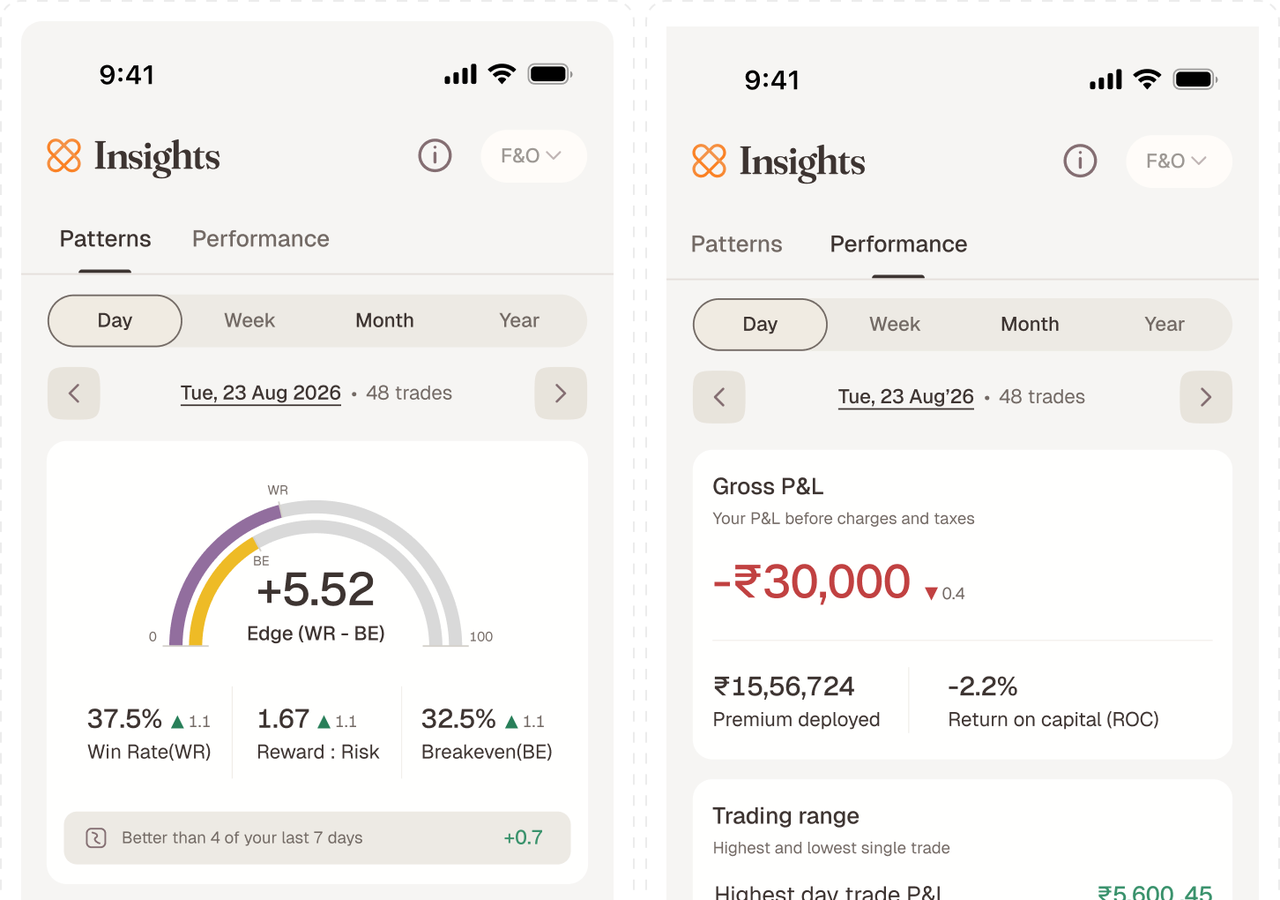
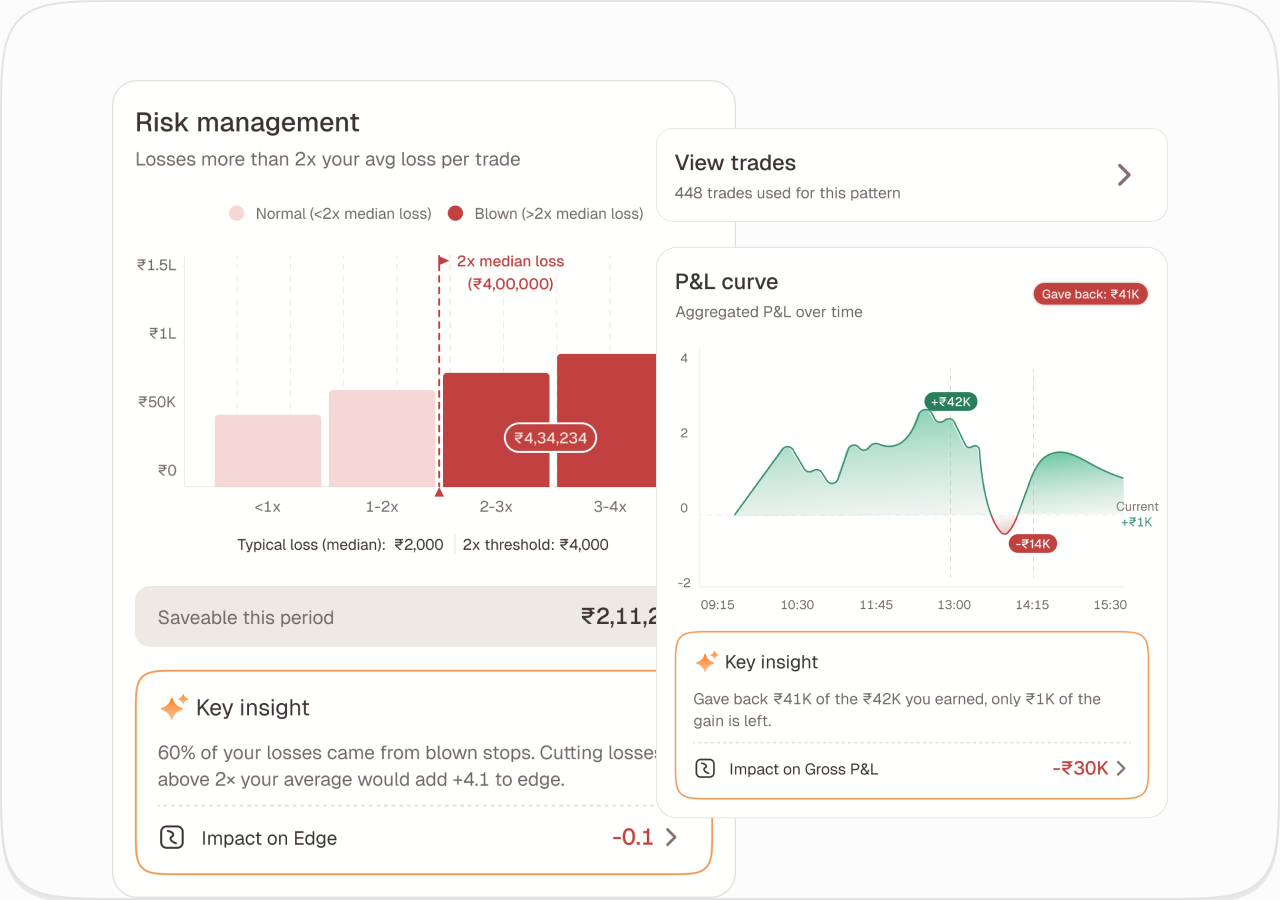
Use the designed Mint insights thumbnail and card copy
The card now matches the updated Figma frames on both
breakpoints: subtitle "Helping traders learn in a better way",
two tags (Retention, Dashboard), and the designed thumbnail —
the Risk management and P&L curve detail cards with the View
trades drill-down — replacing the interim crop of the two-tab
comp. Cut pixel-exact from the 4x card exports (desktop
1280x900, mobile 1216x900), ?v bumped so caches refetch.

diff --git a/index.html b/index.html
@@ -134,19 +134,18 @@
           <a class="card" href="projects/mint-insights.html" target="_blank" rel="noopener">
             <div class="card__head">
               <h2 class="card__title">Mint insights <span aria-hidden="true">👏</span></h2>
-              <p class="card__sub">Patterns produce Performance</p>
+              <p class="card__sub">Helping traders learn in a better way</p>
               <ul class="card__tags">
                 <li>Retention</li>
-                <li>Predictions</li>
-                <li>Strategies</li>
+                <li>Dashboard</li>
               </ul>
             </div>
             <figure class="card__media">
               <picture>
-                <source media="(min-width: 768px)" srcset="assets/img/mint-insights-desktop.png?v=1">
-                <img src="assets/img/mint-insights-mobile.png?v=1" width="1216" height="904"
+                <source media="(min-width: 768px)" srcset="assets/img/mint-insights-desktop.png?v=2">
+                <img src="assets/img/mint-insights-mobile.png?v=2" width="1216" height="900"
                      decoding="async" loading="lazy"
-                     alt="Mint Insights — the Patterns tab with its Edge dial at +5.52, beside the Performance tab reporting Gross P&L, capital deployed and charges.">
+                     alt="Mint Insights detail cards — Risk management with its loss-distribution chart and key insight, layered beside the P&L curve card and the View trades drill-down.">
               </picture>
             </figure>
             <span class="card__arrow" aria-hidden="true">
